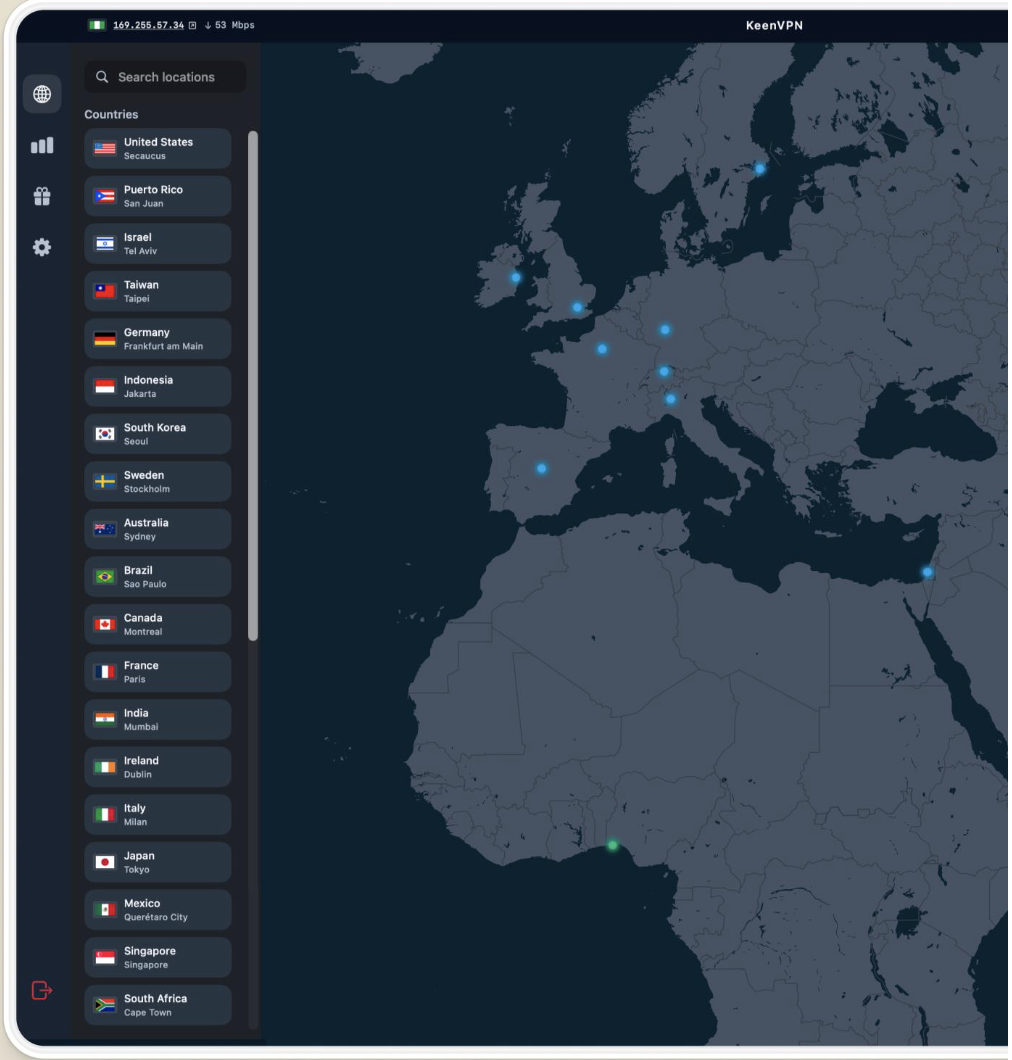
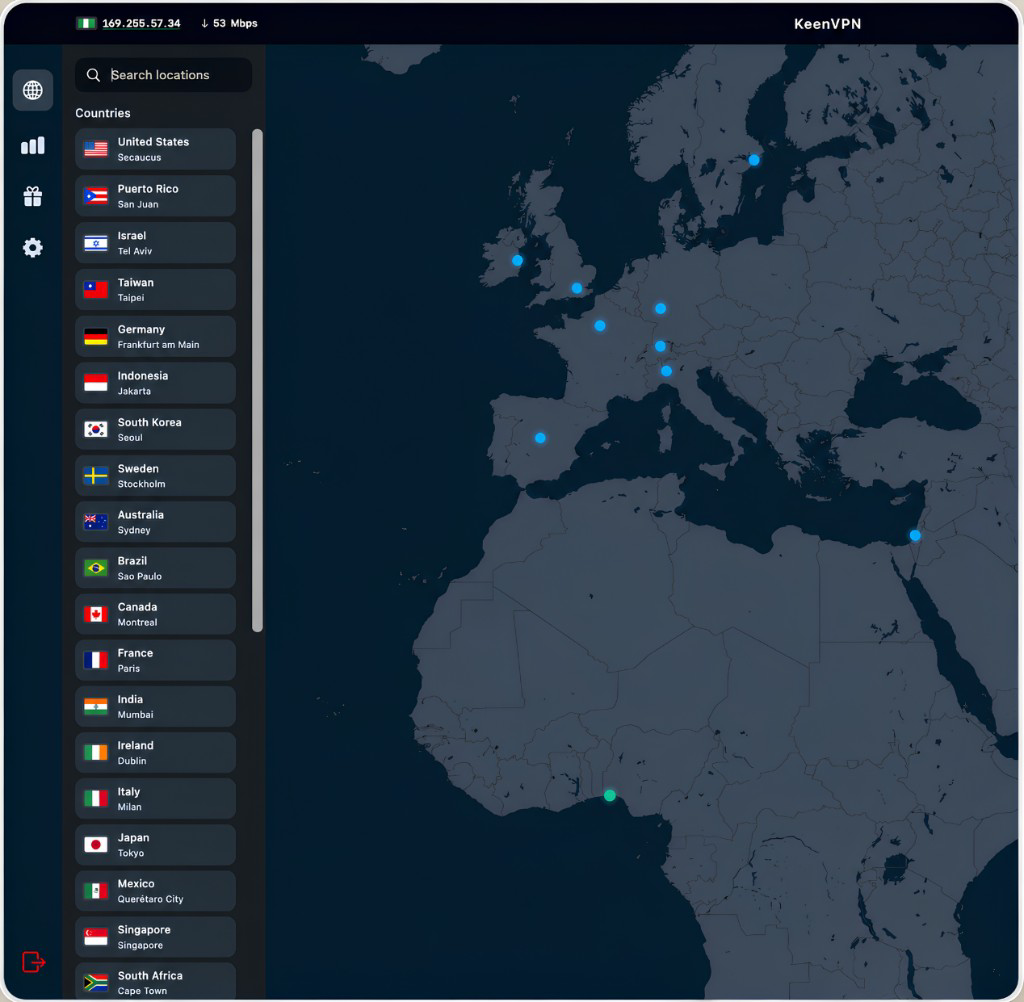
fix: use sharper KeenVPN app preview on sign-in

diff --git a/src/components/auth/AuthProductPreview.tsx b/src/components/auth/AuthProductPreview.tsx
@@ -7,8 +7,8 @@ export default function AuthProductPreview() {
       <img
         src="/keenvpn-app-preview.png"
         alt="KeenVPN desktop app showing secure server locations"
-        width={1012}
-        height={1060}
+        width={1024}
+        height={1002}
         decoding="async"
         fetchPriority="high"
         draggable={false}
